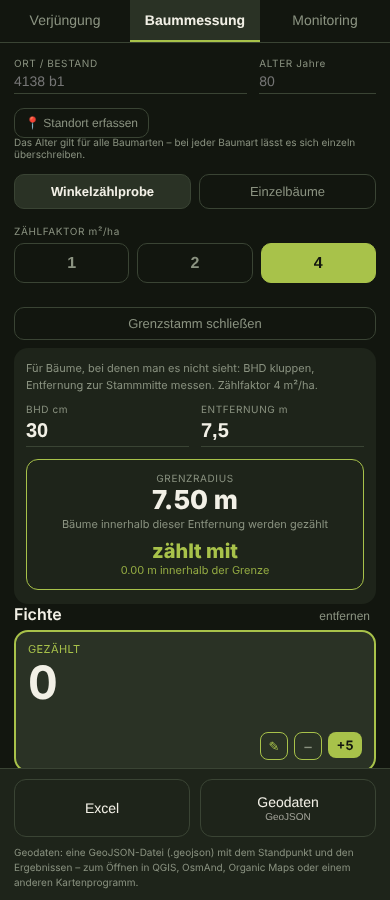
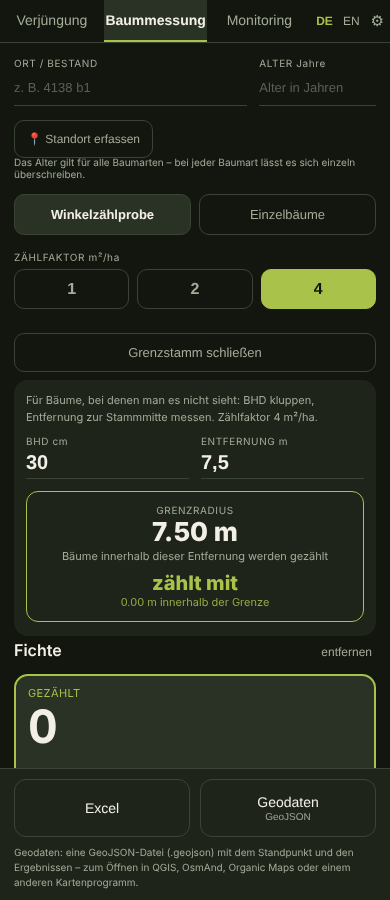
Hoehenmesser: nichts rutscht mehr unter dem Daumen weg
Aus dem Feldtest: "immer wenn man auf den Knopf drueckt, bewegt sich
der Bildschirm nach unten." Nachgemessen waren es 127 px beim
Festhalten des Stammfusses - die Entfernungsschaetzung klappte von
selbst oberhalb der Peilknoepfe auf, genau in dem Moment, in dem der
Daumen noch dort lag.

- Die Schaetzung klappt nur noch auf Antippen auf ("Kein Massband?
  Entfernung aus der Neigung schaetzen") und schliesst sich, sobald
  eine Entfernung im Feld steht - sonst kaeme sie beim Loeschen des
  Feldes von selbst wieder hoch.
- Die Zeile dazu haelt ihren Platz (27 px), auch wenn sie leer ist.
- Der Sucher behaelt sein Seitenverhaeltnis, waehrend die Kamera noch
  startet.

Gemessen statt geschaetzt: peilen.cjs vergleicht jetzt die Position des
Fuss-Knopfes vor und nach jedem Festhalten und nach dem Eintragen der
Entfernung - dreimal 0 px.

Claude-Session: https://claude.ai/code/session_01UcgtjEzNySqDq1xaYLyN6M

diff --git a/src/baum/Hoehenmesser.jsx b/src/baum/Hoehenmesser.jsx
@@ -61,6 +61,15 @@ export default function Hoehenmesser({ offen, onSchliessen, onUebernehmen }) {
      gibt es kein WebXR - dort soll kein Knopf stehen, der nichts tut. */
   const [arKann, setArKann] = useState(false);
   const [arOffen, setArOffen] = useState(false);
+  /* Die Entfernungsschaetzung klappt nur auf Wunsch auf.
+
+     Vorher erschien sie von selbst, sobald der Fuss angepeilt war - und
+     schob dabei alles darunter um 127 px nach unten, genau in dem
+     Moment, in dem der Daumen auf dem Knopf lag. Gemeldet als "immer
+     wenn man auf den Knopf drückt, bewegt sich der Bildschirm nach
+     unten". Jetzt bewegt sich nichts, was man nicht selbst angetippt
+     hat. */
+  const [schaetzungOffen, setSchaetzungOffen] = useState(false);
   const [unten, setUnten] = useState(null);
   const [oben, setOben] = useState(null);
   const [sensor, setSensor] = useState("unbekannt"); // unbekannt|laeuft|nein|gesperrt
@@ -229,6 +238,14 @@ export default function Hoehenmesser({ offen, onSchliessen, onUebernehmen }) {
     if (jetztDa && !hatteHoehe.current) stups(FERTIG);
     hatteHoehe.current = jetztDa;
   }, [offen, hoehe]);
+
+  /* Steht eine Entfernung im Feld, ist die Schaetzung erledigt - und
+     bleibt es auch. Ohne dieses Zuklappen kaeme sie beim Loeschen des
+     Feldes von selbst wieder hoch und schoebe alles darunter nach unten,
+     mitten im Neueintragen. */
+  useEffect(() => {
+    if (Number(String(entfernung).replace(",", ".")) > 0) setSchaetzungOffen(false);
+  }, [entfernung]);
 
   if (!offen) return null;
 
@@ -433,15 +450,38 @@ export default function Hoehenmesser({ offen, onSchliessen, onUebernehmen }) {
           </button>
         )}
 
-        {/* Schaetzung aus dem Fusswinkel. Steht bewusst UNTER dem Feld und
-            traegt sich nicht von selbst ein: Sie ist ein Vorschlag, und
-            jenseits weniger Meter ein schlechter.
+        {/* Die Zeile dazu haelt ihren Platz, auch wenn sie leer ist:
+            Sobald eine Entfernung dasteht, hat sie nichts mehr zu sagen -
+            verschwaende sie dann ihre 27 px, ruckte alles darunter nach
+            oben, mitten im Eintragen. Was aufklappt, klappt nur auf
+            Antippen auf. */}
+        <div style={{ minHeight: 27 }}>
+          {!hatEntfernung && (
+            <button
+              onClick={() => setSchaetzungOffen((o) => !o)}
+              style={{
+                width: "100%",
+                background: "transparent",
+                border: "none",
+                color: farben.muted,
+                fontSize: 11,
+                textAlign: "left",
+                padding: "8px 0 0",
+                cursor: "pointer",
+              }}
+            >
+              {schaetzungOffen
+                ? t("Schätzung ausblenden")
+                : t("Kein Maßband? Entfernung aus der Neigung schätzen")}
+            </button>
+          )}
+        </div>
 
-            Nur sichtbar, solange keine Entfernung dasteht. Wer geschritten
-            oder gemessen hat, braucht keinen Vorschlag - und erst recht
-            keine rote Warnung darueber, dass der Vorschlag nicht taugt,
-            den er gar nicht benutzt. */}
-        {schaetzung && !hatEntfernung && (
+        {/* Schaetzung aus dem Fusswinkel. Traegt sich nicht von selbst
+            ein: Sie ist ein Vorschlag, und jenseits weniger Meter ein
+            schlechter. Verschwindet, sobald eine Entfernung dasteht - wer
+            geschritten oder gemessen hat, braucht keinen Vorschlag. */}
+        {schaetzungOffen && !hatEntfernung && (
           <div
             style={{
               background: farben.surface,
@@ -472,7 +512,11 @@ export default function Hoehenmesser({ offen, onSchliessen, onUebernehmen }) {
               </div>
             </div>
 
-            {schaetzung.brauchbar ? (
+            {!schaetzung ? (
+              <div style={{ fontSize: 11, color: farben.muted, lineHeight: 1.5 }}>
+                {t("Dafür erst den Stammfuß anpeilen – aus diesem Winkel kommt die Schätzung.")}
+              </div>
+            ) : schaetzung.brauchbar ? (
               <>
                 <div style={{ fontSize: 10, color: farben.muted, letterSpacing: 0.6 }}>
                   {t("AUS DER NEIGUNG ({grad}° nach unten)", {
@@ -584,7 +628,11 @@ export default function Hoehenmesser({ offen, onSchliessen, onUebernehmen }) {
               borderRadius: 14,
               overflow: "hidden",
               marginBottom: 12,
-              aspectRatio: kamera === "laeuft" ? "3 / 4" : undefined,
+              /* Auch schon, waehrend die Kamera startet: Sonst waechst der
+                 Kasten eine Sekunde nach dem Oeffnen und schiebt alles
+                 darunter weg. Erst wenn feststeht, dass es keine Kamera
+                 gibt, faellt der Platz weg. */
+              aspectRatio: kamera === "nein" ? undefined : "3 / 4",
               maxWidth: "100%",
             }}
           >

diff --git a/src/woerterbuch.js b/src/woerterbuch.js
@@ -786,6 +786,12 @@ export const WOERTER = {
     "Enter {was}",
   "hier Entfernung eintragen":
     "enter the distance here",
+  "Kein Maßband? Entfernung aus der Neigung schätzen":
+    "No tape measure? Estimate the distance from the tilt",
+  "Schätzung ausblenden":
+    "Hide the estimate",
+  "Dafür erst den Stammfuß anpeilen – aus diesem Winkel kommt die Schätzung.":
+    "Sight the base of the trunk first – the estimate comes from that angle.",
   // Hinweise in leeren Feldern: ein Wort, das sagt, was hineingehört -
   // nie eine Zahl, die wie ein eingetragener Wert aussieht.
   "Alter in Jahren":
